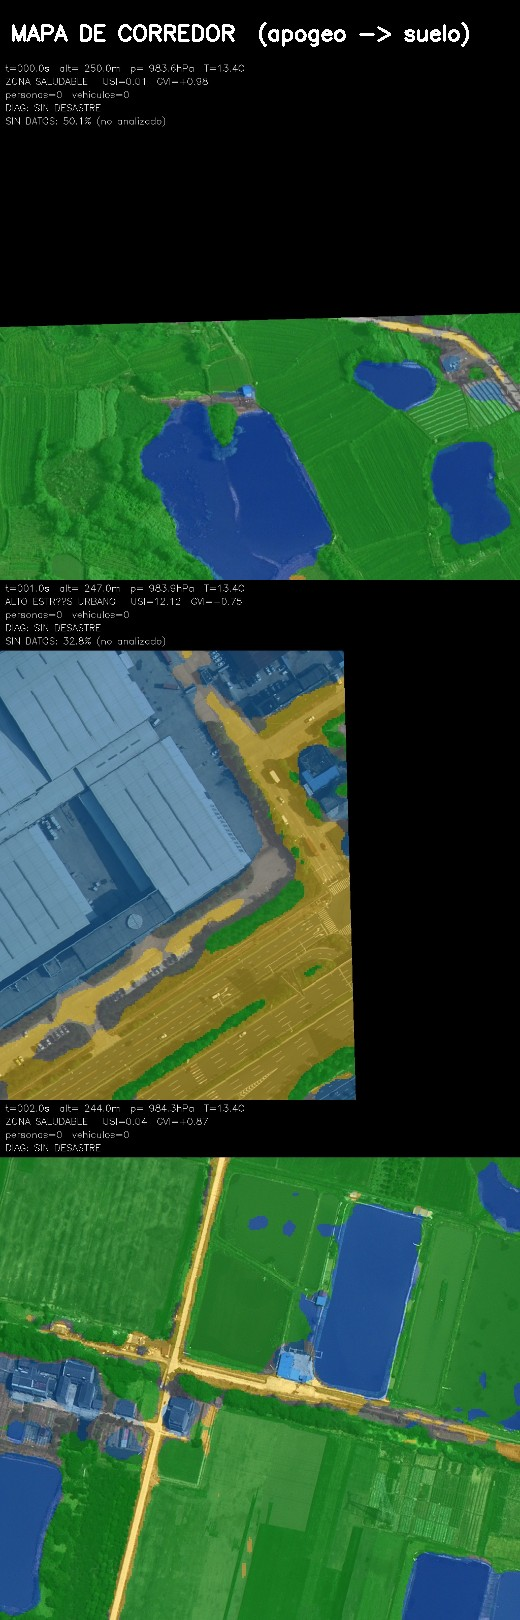
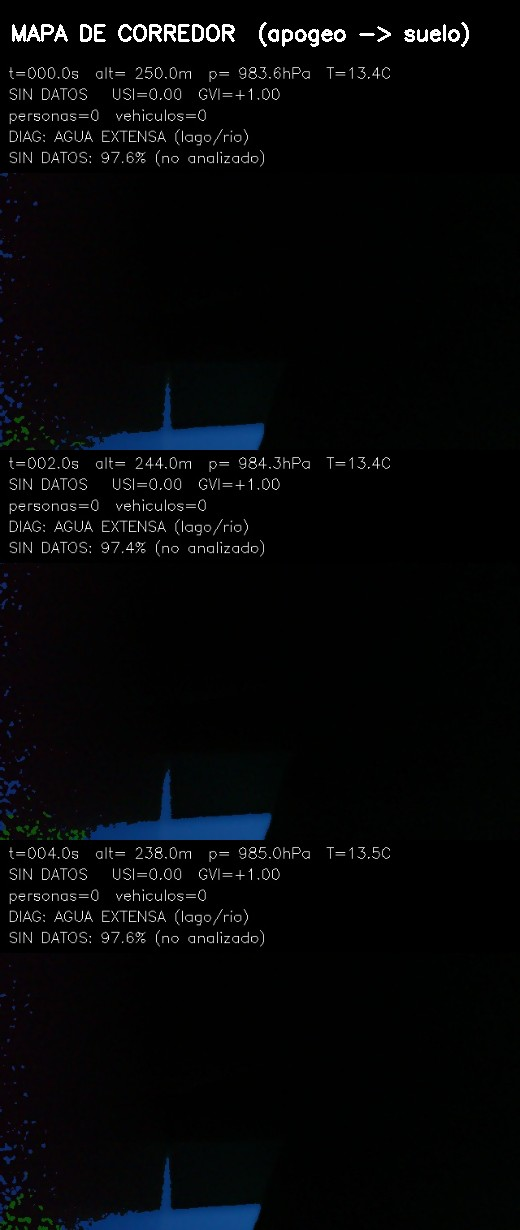
Demo Pi en vivo: cadena captura->scp->post-vuelo->estacion probada end-to-end (scripts + guia)
- pi/demo_vivo.sh (nuevo): listener UART + captura con AI Camera (tiny + deteccion IMX500 + shutter/gain) y mision lista; avisa si la Heltec no esta

- tools/demo_pi.ps1 (nuevo): orquesta scp + post_flight (--no-edsr) + copia a la estacion; -Frames/-SaltarPostVuelo

- mission_pipeline: en modo camara los frames crudos se guardan SIEMPRE en full_res (sin sampler no se guardaba nada: el imwrite fallaba en silencio porque la carpeta no existia)

- post_flight: el flood specialist es 224 pero recibia el tensor de 320 (ORT abortaba); ahora usa su propio tamano como fuego/severidad/vias

- Checklist firmado por Juan Manuel Iglesias (ensayo 2026-10-03); DEMO-PRESENTACION.md con la guia y el plan B

diff --git a/cansat_seg_poc/mission_pipeline.py b/cansat_seg_poc/mission_pipeline.py
@@ -900,7 +900,10 @@ def main(argv=None):
 
     sampler = AdaptiveSampler(uncert_max=args.uncert_max) if args.sampler else None
     hi_dir, full_dir, th_dir = (out / "high_res", out / "full_res", out / "thumb")
-    if sampler is not None:
+    # Con sampler se guardan por prioridad; en modo cámara SIEMPRE full_res
+    # (el post-vuelo de la PC necesita los frames crudos; sin la carpeta el
+    # imwrite fallaba en silencio).
+    if sampler is not None or args.camera:
         for d in (hi_dir, full_dir, th_dir):
             d.mkdir(parents=True, exist_ok=True)
     pri_count: Counter = Counter()
@@ -1311,6 +1314,11 @@ def main(argv=None):
                     cv2.imwrite(str(dst / f"{name}.png"), bgr)
             else:
                 dec = {"priority": "FULL", "score": 0.0, "review": False}
+                if args.camera:
+                    # En vuelo (cámara) los frames crudos se guardan SIEMPRE en
+                    # full_res: el post-vuelo de la PC los necesita (en modo
+                    # carpeta ya están en disco y no se re-escriben).
+                    cv2.imwrite(str(full_dir / f"{name}.png"), bgr)
 
             # ── Evidencia visual ────────────────────────────────────────
             if not args.no_vis:

diff --git a/cansat_seg_poc/post_flight.py b/cansat_seg_poc/post_flight.py
@@ -454,7 +454,15 @@ def main(argv=None) -> int:
 
         pct_flood = pct_fw = None
         if sess_f:
-            pf = np.argmax(sess_f.run({"input": tensor})[0], axis=0)
+            # El flood specialist es 224 px: antes se le pasaba el tensor de 320
+            # y ORT abortaba (bug destapado por la demo Pi→PC el 2026-10-03).
+            sz = sess_f.size_px or 224
+            t_f = tensor if sz == 320 else PP.preprocess_bgr(img, sz)
+            pf = np.argmax(sess_f.run({"input": t_f})[0], axis=0)
+            if sz != 320:
+                # Las máscaras de flood se guardan al tamaño del frame válido.
+                pf = cv2.resize(pf.astype(np.uint8), (valid.shape[1], valid.shape[0]),
+                                interpolation=cv2.INTER_NEAREST)
             pct_flood = float(((pf == 1) & valid).sum()) / n_valid * 100.0
             pct_fw = float(((pf == 2) & valid).sum()) / n_valid * 100.0
 

diff --git a/DEMO-PRESENTACION.md b/DEMO-PRESENTACION.md
@@ -1,0 +1,63 @@
+# Demo de presentación — "Pi en vivo" → estación (2026-10-03)
+
+Cadena completa, probada end-to-end:
+
+```
+Heltec (BME280 real) --UART GPIO15--> Raspberry Pi (AI Camera + tiny@224
++ detección on-sensor IMX500) --scp--> PC (post-vuelo completo con ORT)
+--> Estación terrena (mapa, consulta, informe)
+```
+
+## Preparación (una vez, antes de presentar)
+
+1. **Heltec**: encendida por USB de la PC y cableada a la Pi:
+   `TX → GPIO15 (pin 10)` y `GND → GND (pin 6)`. La Pi ya tiene el UART
+   configurado (`/dev/serial0`, consola serie off).
+2. **Pi**: encendida, misma red WiFi, IP fija **192.168.68.240**
+   (`cansat.local` también resuelve). SSH por clave desde la PC.
+3. **PC**: estación construida (`web-app/dist`) y repo de vuelo al día.
+
+## Comando único (en la PC)
+
+```powershell
+cd EstacionTerrena_MuestreoDeDatos
+powershell -ExecutionPolicy Bypass -File tools\demo_pi.ps1 -Frames 12
+```
+
+Hace todo: captura en vivo (12 frames ≈ 45 s), trae la misión, corre el
+post-vuelo completo (sin EDSR, ~1-2 min) y copia misión + entrega a la
+estación. Al terminar:
+
+```powershell
+python web_server.py        # → http://localhost:8000
+```
+
+## Qué mostrar
+
+1. **Pi capturando** (opcional, en otra terminal):
+   `ssh pi@192.168.68.240` y dejar corriendo
+   `bash ~/cansat_seg_poc/pi/demo_vivo.sh 12` — se ven los frames, las
+   detecciones de personas del NPU y el UART con los sensores reales.
+2. **Estación** (vista Vuelo): corredor con los frames capturados, badge OOD,
+   detecciones, y el detalle por frame.
+3. **Post-vuelo**: daño/flood/fuego/severidad calculados en la PC + Informe
+   (Imprimir/PDF) y póster (`docs/poster_LB135.png`).
+
+## Plan B
+
+- **Sin red**: la captura se puede hacer igual y pasar la misión por SD
+  (`tools/ingest_sd.py`); la estación funciona 100% offline.
+- **Sin Heltec**: `demo_vivo.sh` avisa y sigue con atmósfera simulada.
+- **Sin cámara**: el pipeline degrada a `--folder` con tiles de prueba.
+- **Sin tiempo**: `-Frames 6` (≈20 s) o `-SaltarPostVuelo` para mostrar solo
+  la captura y el corredor.
+
+## Detalles técnicos
+
+- Captura: `mission_pipeline --camera --no-damage --onnx tiny --img-size 224
+  --det-backend imx500 --shutter 8000 --gain 16 --uart-state …` (el daño va en
+  la PC; `--shutter` evita el motion blur de la exposición automática).
+- Los frames crudos se guardan en `full_res/` (modo cámara) para el
+  post-vuelo de la PC.
+- Tiempos medidos: captura ~3.5 s/frame; post-vuelo de 12 frames ~1-2 min en
+  la PC (sin EDSR).

diff --git a/EstacionTerrena_MuestreoDeDatos/CHECKLIST-SIMULACRO.md b/EstacionTerrena_MuestreoDeDatos/CHECKLIST-SIMULACRO.md
@@ -74,4 +74,4 @@ guion de 12 pasos sigue siendo del operador con el simulacro en vivo.
 | Fecha | Operador | Variantes | Resultado | Notas |
 |---|---|---|---|---|
 | 2026-09-21 | opencode (automático) — **falta firma del operador** | 1) sin post-vuelo 2) sin WebGL 3) 1366×768 4) misión nueva (clean + seed 777) | ✔ 4/4: V1 empty state sin errores; V2 perfil SVG sin errores; V3 Δoverflow 0 px; V4 smoke 56/56 verde y seed distinto sin errores | `node tools/check-variantes.mjs`; capturas en `tools/shots/checklist/`. El checklist encontró y se corrigió un bug real: `simulacro.py` leía/escribía el CSV sin `encoding="utf-8"` y en Windows rompía el server (HTTP 500). |
-| 2026-10-03 | Equipo (ensayo en vivo con el simulacro) — **falta firma del operador** | 1) sin post-vuelo 2) sin WebGL 3) 1366×768 4) misión nueva | ✔ 4/4 automáticas (TODO VERDE) + guion de 12 pasos corrido en vivo con el operador; se observaron y corrigieron 3 bugs visuales (ver Notas) | Ensayo con `simulacro.py --velocidad 0.5 --dropout 6 --rafaga 2 --trunco-en 9` y server `--root <tmp>` en 8004. Bugs corregidos ese mismo día (commit `a5f4639`): (a) el paracaídas 3D se plegaba con el dropout de telemetría; (b) al aterrizar la tela quedaba oculta dentro del cuerpo; (c) las filas de ráfaga se insertaban con altitud no monótona y la escena "volvía a subir". También se arregló el crash `UnicodeEncodeError` del simulacro con stdout redirigido (`8d01694`) y se reformuló el texto del motor simbólico (sin LLM). |
+| 2026-10-03 | **Juan Manuel Iglesias** (ensayo en vivo con el simulacro) | 1) sin post-vuelo 2) sin WebGL 3) 1366×768 4) misión nueva | ✔ 4/4 automáticas (TODO VERDE) + guion de 12 pasos corrido en vivo con el operador; se observaron y corrigieron 3 bugs visuales (ver Notas) | Ensayo con `simulacro.py --velocidad 0.5 --dropout 6 --rafaga 2 --trunco-en 9` y server `--root <tmp>` en 8004. Bugs corregidos ese mismo día (commit `a5f4639`): (a) el paracaídas 3D se plegaba con el dropout de telemetría; (b) al aterrizar la tela quedaba oculta dentro del cuerpo; (c) las filas de ráfaga se insertaban con altitud no monótona y la escena "volvía a subir". También se arregló el crash `UnicodeEncodeError` del simulacro con stdout redirigido (`8d01694`) y se reformuló el texto del motor simbólico (sin LLM). |
